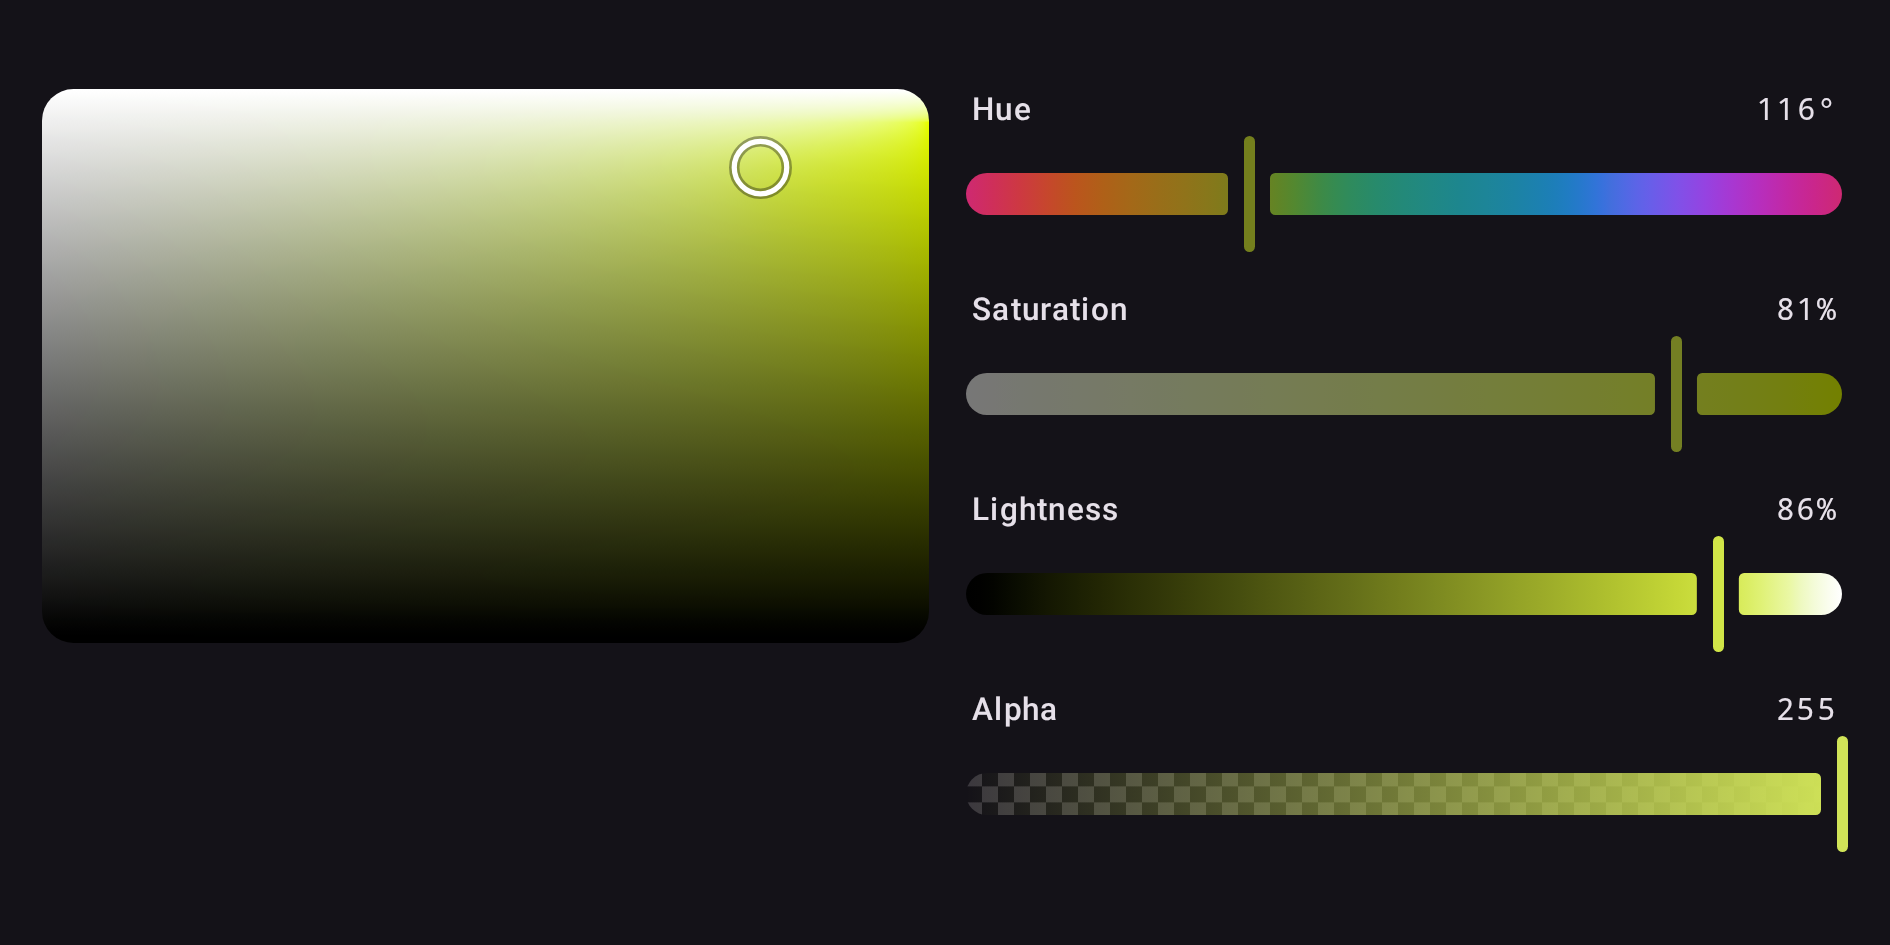
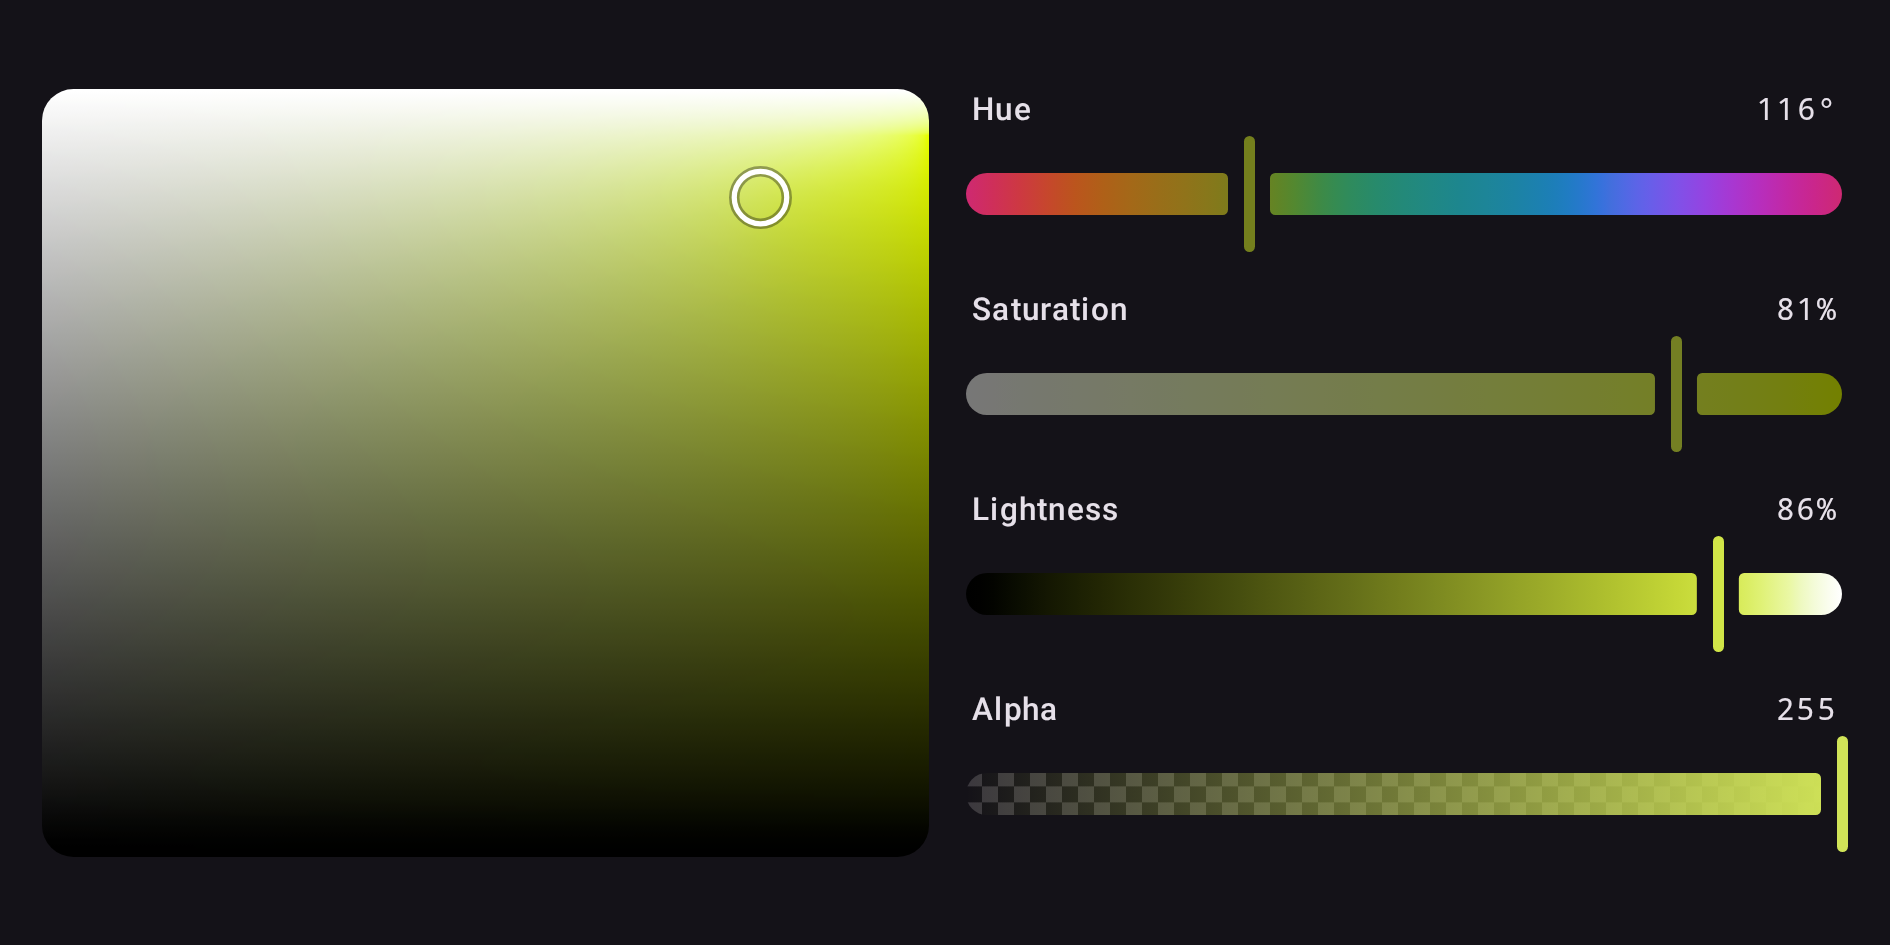
Make the plane as tall as the sliders beside it
Laid out side by side, as the dialog is on a wide, short window, the plane kept the 1.6 proportion of the stacked picker: in the dialog a 160 dp strip at the top of its half, beside 290 dp of sliders, with an empty band under it. The sliders are now measured first and the plane is given their height as its least, so the two columns start and end together; in the dialog the plane comes out close to square. A plane slot that asks for more height still gets it.

The default plane sized itself with aspectRatio, which keeps its proportion against a least height rather than filling it, so it now takes a least height when one is given and the 1.6 proportion otherwise. Stacked pickers are unchanged, and their screenshots with them.

Changed region(s): [[0.0, 0.0921, 0.4995, 0.7672]]

diff --git a/colorpicker-foundation/src/commonMain/kotlin/codes/side/colorpicker/foundation/BasicColorPicker.kt b/colorpicker-foundation/src/commonMain/kotlin/codes/side/colorpicker/foundation/BasicColorPicker.kt
@@ -4,13 +4,16 @@ import androidx.compose.foundation.gestures.Orientation
 import androidx.compose.foundation.layout.Arrangement
 import androidx.compose.foundation.layout.Box
 import androidx.compose.foundation.layout.Column
-import androidx.compose.foundation.layout.Row
 import androidx.compose.runtime.Composable
 import androidx.compose.runtime.CompositionLocalProvider
 import androidx.compose.runtime.key
 import androidx.compose.ui.Modifier
 import androidx.compose.ui.graphics.Color
+import androidx.compose.ui.layout.Layout
+import androidx.compose.ui.unit.Constraints
 import androidx.compose.ui.unit.Dp
+import androidx.compose.ui.unit.constrainHeight
+import androidx.compose.ui.unit.constrainWidth
 import androidx.compose.ui.unit.dp
 import codes.side.color.AnalogousCategory
 import codes.side.color.ColorChannel
@@ -19,6 +22,7 @@ import codes.side.color.ColorValue
 import codes.side.color.compose.toColorValue
 import codes.side.color.compose.toComposeColor
 import codes.side.colorpicker.state.ColorPickerState
+import kotlin.math.max
 
 /** Whether a picker over [space] shows a plane: [space] has one hue and two other channels. */
 internal fun hasPlane(space: ColorSpace): Boolean = space.channels.size == 3 && space.channels.count { it.isHue } == 1
@@ -52,7 +56,8 @@ internal fun planeAxes(space: ColorSpace): Pair<ColorChannel, ColorChannel>? {
  * @param alphaSlider draws the alpha slider; `null` leaves it out.
  * @param orientation [Orientation.Vertical] stacks the plane, the channel sliders and alpha;
  * [Orientation.Horizontal] puts the plane in the start half and the sliders and alpha in the end
- * half, and gives the sliders the whole width when there is no plane.
+ * half, and gives the sliders the whole width when there is no plane. Beside the sliders the plane is
+ * at least as tall as they are, so the two start and end together.
  * @param spacing the space between the parts.
  */
 @Composable
@@ -79,17 +84,16 @@ public fun BasicColorPicker(
                 if (plane != null && axes != null) plane(state, axes.first, axes.second)
                 PickerSliders(state, space, channelSlider, alphaSlider)
             }
-            Orientation.Horizontal -> Row(
+            Orientation.Horizontal -> SideBySide(
                 modifier = modifier.disabledInput(enabled),
-                horizontalArrangement = Arrangement.spacedBy(spacing),
-            ) {
-                if (plane != null && axes != null) {
-                    Box(Modifier.weight(1f)) { plane(state, axes.first, axes.second) }
-                }
-                Column(Modifier.weight(1f), verticalArrangement = Arrangement.spacedBy(spacing)) {
-                    PickerSliders(state, space, channelSlider, alphaSlider)
-                }
-            }
+                spacing = spacing,
+                plane = if (plane != null && axes != null) {
+                    { plane(state, axes.first, axes.second) }
+                } else {
+                    null
+                },
+                sliders = { PickerSliders(state, space, channelSlider, alphaSlider) },
+            )
         }
     }
 }
@@ -159,6 +163,55 @@ public fun BasicColorPicker(
         fromValue = { it.toComposeColor() },
     )
     BasicColorPicker(state, space, plane, channelSlider, alphaSlider, modifier, enabled, orientation, spacing)
+}
+
+// The plane in the start half and the sliders in the end half, or the sliders across the whole width when there
+// is no plane. The sliders are measured first and the plane is given their height as its least, so the two start
+// and end together; a plane that asks for more height gets it.
+@Composable
+private fun SideBySide(
+    modifier: Modifier,
+    spacing: Dp,
+    plane: (@Composable () -> Unit)?,
+    sliders: @Composable () -> Unit,
+) {
+    Layout(
+        content = {
+            if (plane != null) Box(propagateMinConstraints = true) { plane() }
+            Column(verticalArrangement = Arrangement.spacedBy(spacing)) { sliders() }
+        },
+        modifier = modifier,
+    ) { measurables, constraints ->
+        val gap = spacing.roundToPx()
+        val planeMeasurable = measurables.takeIf { it.size == 2 }?.first()
+        // Null in a row with no width limit, where the sliders take their own width and the plane matches it.
+        val half = when {
+            !constraints.hasBoundedWidth -> null
+            planeMeasurable == null -> constraints.maxWidth
+            else -> ((constraints.maxWidth - gap) / 2).coerceAtLeast(0)
+        }
+        val sliders = measurables.last().measure(
+            Constraints(minWidth = half ?: 0, maxWidth = half ?: Constraints.Infinity, maxHeight = constraints.maxHeight),
+        )
+        val planePlaceable = planeMeasurable?.let {
+            val planeWidth = half ?: sliders.width
+            it.measure(
+                Constraints(
+                    minWidth = planeWidth,
+                    maxWidth = planeWidth,
+                    minHeight = sliders.height.coerceAtMost(constraints.maxHeight),
+                    maxHeight = constraints.maxHeight,
+                ),
+            )
+        }
+        val slidersX = if (planePlaceable != null) planePlaceable.width + gap else 0
+        val width = constraints.constrainWidth(slidersX + sliders.width)
+        val height = constraints.constrainHeight(max(sliders.height, planePlaceable?.height ?: 0))
+        layout(width, height) {
+            planePlaceable?.placeRelative(0, 0)
+            sliders.placeRelative(slidersX, 0)
+        }
+    }
 }
 
 // A slider for each of [space]'s channels in channel order, then alpha.

diff --git a/colorpicker-material3/src/commonMain/kotlin/codes/side/colorpicker/material3/ColorPickerDefaults.kt b/colorpicker-material3/src/commonMain/kotlin/codes/side/colorpicker/material3/ColorPickerDefaults.kt
@@ -5,8 +5,6 @@ import androidx.compose.foundation.interaction.InteractionSource
 import androidx.compose.foundation.interaction.collectIsDraggedAsState
 import androidx.compose.foundation.interaction.collectIsFocusedAsState
 import androidx.compose.foundation.interaction.collectIsPressedAsState
-import androidx.compose.foundation.layout.aspectRatio
-import androidx.compose.foundation.layout.fillMaxWidth
 import androidx.compose.foundation.layout.size
 import androidx.compose.foundation.shape.CircleShape
 import androidx.compose.material3.MaterialTheme
@@ -20,13 +18,17 @@ import androidx.compose.ui.graphics.Color
 import androidx.compose.ui.graphics.Shape
 import androidx.compose.ui.graphics.drawscope.Stroke
 import androidx.compose.ui.input.InputMode
+import androidx.compose.ui.layout.layout
 import androidx.compose.ui.platform.LocalInputModeManager
+import androidx.compose.ui.unit.Constraints
 import androidx.compose.ui.unit.Dp
+import androidx.compose.ui.unit.constrainHeight
 import androidx.compose.ui.unit.dp
 import codes.side.color.ColorChannel
 import codes.side.colorpicker.foundation.ColorSliderScope
 import codes.side.colorpicker.state.ColorPickerState
 import codes.side.colorpicker.state.ColoringMode
+import kotlin.math.roundToInt
 
 // Material's slider handle height (SliderTokens.HandleHeight).
 private val SliderThumbHeight = 44.dp
@@ -36,6 +38,20 @@ private val FocusRingGap = 4.dp
 
 // A picker's plane, width over height.
 private const val PLANE_ASPECT_RATIO = 1.6f
+
+// As wide as the picker allows, and as tall as the least height it asks for, as it does beside the sliders, or else
+// PLANE_ASPECT_RATIO times less than its width. aspectRatio keeps the proportion against such a height, which leaves
+// a short plane centred in the space the sliders make.
+private fun Modifier.planeSize(): Modifier = layout { measurable, constraints ->
+    val width = if (constraints.hasBoundedWidth) constraints.maxWidth else constraints.minWidth
+    val height = if (constraints.minHeight > 0) {
+        constraints.minHeight
+    } else {
+        constraints.constrainHeight((width / PLANE_ASPECT_RATIO).roundToInt())
+    }
+    val placeable = measurable.measure(Constraints.fixed(width, height))
+    layout(width, height) { placeable.place(0, 0) }
+}
 
 /**
  * Defaults for the Material color picker components: the theme values, whose composable factories read the ambient
@@ -230,7 +246,8 @@ public object ColorPickerDefaults {
 
     /**
      * The plane a picker draws unless given another: a [ChannelPlane] over the axes the picker hands it,
-     * filling the width the picker gives it, the whole picker's or its start half's, at 1.6 times its height.
+     * filling the width the picker gives it, the whole picker's or its start half's, at 1.6 times its height;
+     * beside the sliders, as tall as they are.
      */
     public fun plane(
         enabled: Boolean,
@@ -240,7 +257,7 @@ public object ColorPickerDefaults {
             state,
             x,
             y,
-            Modifier.fillMaxWidth().aspectRatio(PLANE_ASPECT_RATIO),
+            Modifier.planeSize(),
             enabled = enabled,
             onValueChangeFinished = onValueChangeFinished,
         )

diff --git a/colorpicker-foundation/src/jvmTest/kotlin/codes/side/colorpicker/foundation/BasicColorPickerTest.kt b/colorpicker-foundation/src/jvmTest/kotlin/codes/side/colorpicker/foundation/BasicColorPickerTest.kt
@@ -168,6 +168,45 @@ class BasicColorPickerTest {
     }
 
     @Test
+    fun sideBySideThePlaneIsAsTallAsTheSlidersBesideIt() = runComposeUiTest {
+        setContent {
+            BasicColorPicker(
+                ColorPickerState(teal),
+                Hsl,
+                plane = { _, _, _ -> Box(Modifier.fillMaxWidth().testTag("plane")) },
+                channelSlider = boxSlider,
+                alphaSlider = boxAlpha,
+                modifier = Modifier.width(400.dp),
+                orientation = Orientation.Horizontal,
+                spacing = 10.dp,
+            )
+        }
+        // Three channels and alpha, 20 dp each and 10 dp apart, beside a plane in the other half of what the
+        // spacing leaves.
+        assertEquals(bounds("h").top, bounds("plane").top)
+        assertEquals(bounds("alpha").bottom, bounds("plane").bottom)
+        assertEquals(110f, (bounds("plane").bottom - bounds("plane").top).value, 0.5f)
+        assertEquals(195f, (bounds("plane").right - bounds("plane").left).value, 0.5f)
+    }
+
+    @Test
+    fun sideBySideAPlaneAskingForMoreHeightGetsIt() = runComposeUiTest {
+        setContent {
+            BasicColorPicker(
+                ColorPickerState(teal),
+                Hsl,
+                plane = { _, _, _ -> Box(Modifier.fillMaxWidth().height(200.dp).testTag("plane")) },
+                channelSlider = boxSlider,
+                alphaSlider = boxAlpha,
+                modifier = Modifier.width(400.dp),
+                orientation = Orientation.Horizontal,
+            )
+        }
+        assertEquals(200f, (bounds("plane").bottom - bounds("plane").top).value, 0.5f)
+        assertEquals(bounds("plane").top, bounds("h").top)
+    }
+
+    @Test
     fun aDisabledPickerDisablesALibrarySliderAndRefusesTouchesToTheRest() = runComposeUiTest {
         var clicks = 0
         setContent {

diff --git a/colorpicker-material3/src/jvmTest/kotlin/codes/side/colorpicker/material3/ColorPickerTest.kt b/colorpicker-material3/src/jvmTest/kotlin/codes/side/colorpicker/material3/ColorPickerTest.kt
@@ -185,6 +185,22 @@ class ColorPickerTest {
     }
 
     @Test
+    fun aHorizontalPickersPlaneIsAsTallAsItsSliders() = runComposeUiTest {
+        setContent { ColorPicker(teal(), Modifier.width(600.dp).testTag("picker"), space = Hsl, orientation = Orientation.Horizontal) }
+        val plane = onNode(SemanticsMatcher.keyIsDefined(SemanticsActions.CustomActions)).getUnclippedBoundsInRoot()
+        val picker = onNodeWithTag("picker").getUnclippedBoundsInRoot()
+        assertEquals(picker.top.value, plane.top.value, 0.5f)
+        assertEquals(picker.bottom.value, plane.bottom.value, 0.5f)
+    }
+
+    @Test
+    fun aVerticalPickersPlaneIsOnePointSixTimesAsWideAsItIsTall() = runComposeUiTest {
+        setContent { ColorPicker(teal(), Modifier.width(320.dp), space = Hsl) }
+        val plane = onNode(SemanticsMatcher.keyIsDefined(SemanticsActions.CustomActions)).getUnclippedBoundsInRoot()
+        assertEquals(200f, (plane.bottom - plane.top).value, 0.5f)
+    }
+
+    @Test
     fun aHorizontalPickerWithNoPlaneGivesTheSlidersTheWholeWidth() = runComposeUiTest {
         setContent {
             ColorPicker(ColorPickerState(Srgb(0.2, 0.4, 0.6)), Modifier.width(400.dp), space = Srgb, orientation = Orientation.Horizontal)
